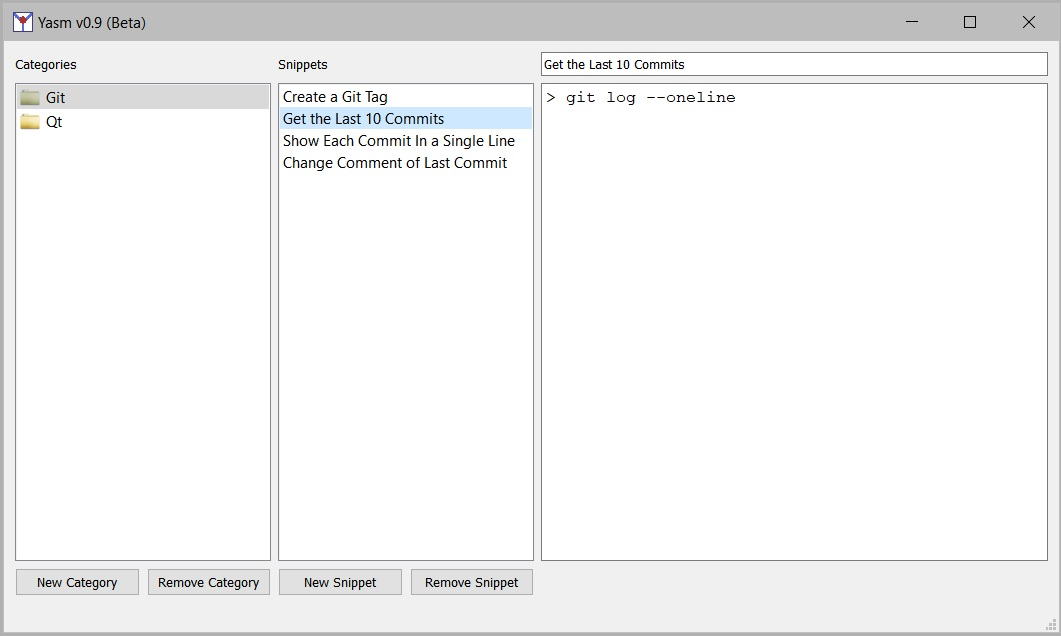
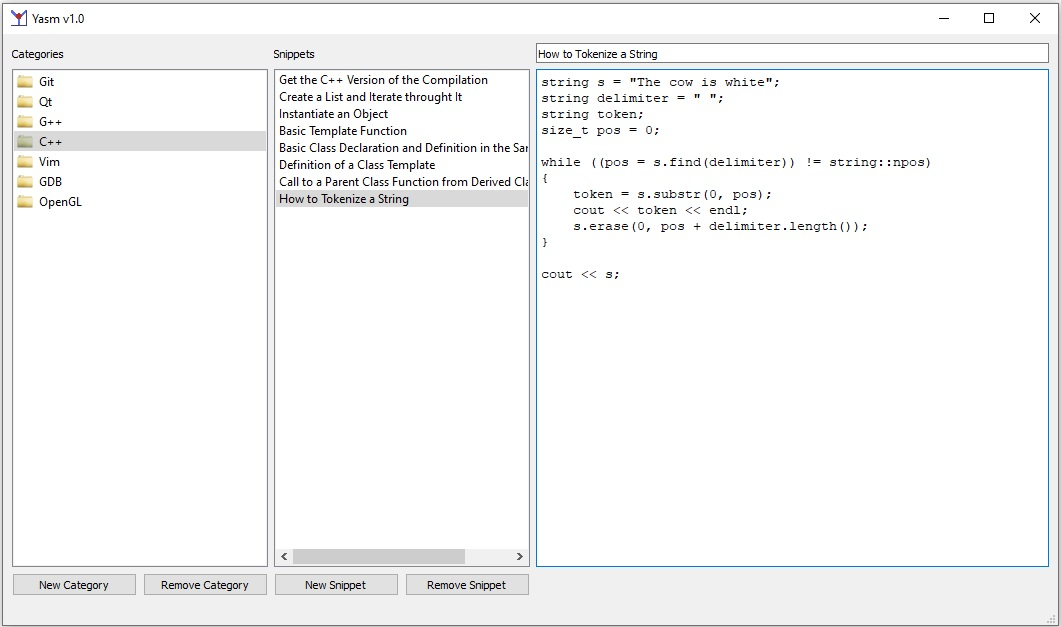
setting all the configuration for the release v1.0

diff --git a/mainwindow.cpp b/mainwindow.cpp
@@ -32,7 +32,7 @@ void MainWindow::firstTimeInitializeGUI()
     ui->pushButtonRemoveCategory->setText("Remove Category");
     ui->pushButtonNewSnippet->setText("New Snippet");
     ui->pushButtonRemoveSnippet->setText("Remove Snippet");
-    this->setWindowTitle("Yasm v0.9 (Beta)");
+    this->setWindowTitle("Yasm v1.0");
 
     ui->pushButtonRemoveCategory->setEnabled(false);
     ui->pushButtonNewSnippet->setEnabled(false);
@@ -383,7 +383,7 @@ void MainWindow::createDBConnection()
         qDebug() << "QSQLITE driver is available";
     }
 
-    QString dbFolder = "C:\\plainoldprogrammer\\prod\\databases\\";
+    QString dbFolder = "C:\\yasm\\";
     QDir dbDirectory(dbFolder);
     QString sqliteFileName = "snippets.db";
     QString dbURI = dbFolder + sqliteFileName;
